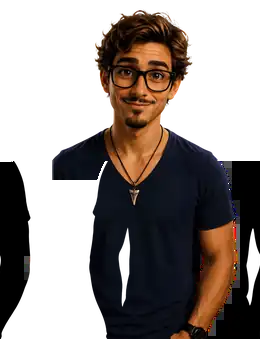
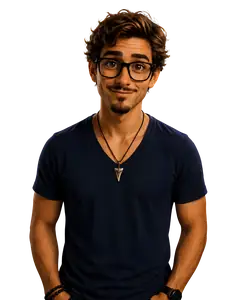
Fix Cam About image and Amazon button contrast

diff --git a/index.html b/index.html
@@ -1645,6 +1645,17 @@ body.light-theme .about-title-copy h2{color:#151915}
   .about-copy-v2{order:3;margin-top:8px}
 }
 </style>
+<style id="amazon-white-black-fix-20260927">
+#amazonBtn,.btn.amazon,.journal-amazon .btn{
+  background:#fff!important;
+  color:#000!important;
+  border-color:#fff!important;
+}
+#amazonBtn:hover,.btn.amazon:hover,.journal-amazon .btn:hover{
+  background:#f2f2f2!important;
+  color:#000!important;
+}
+</style>
 </head>
 <body><div class="site-bg" aria-hidden="true"></div>
 <div class="leaf-field" aria-hidden="true">
